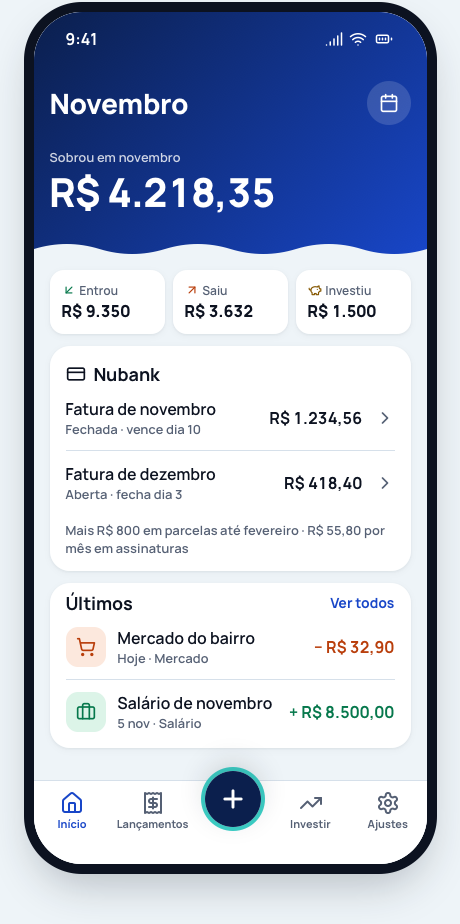
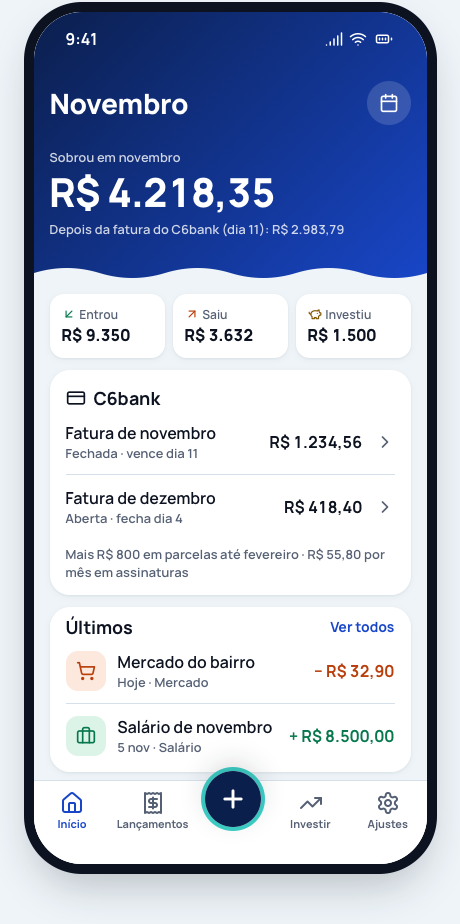
Design: extrato Débito/Crédito e fatura saindo no vencimento (telas 15, 21 e 22)

diff --git a/design/project/components/TelaInicioCredito/preview.html b/design/project/components/TelaInicioCredito/preview.html
@@ -1,3 +1,3 @@
 <!-- @dsCard group="Telas" height=900 subtitle="15 · Início: a fatura fechada (a pagar) e a aberta de cada cartão" -->
-<div class="bf-phone bf-phone--hero"><div class="bf-phone__island"></div><div class="bf-phone__status"><span>9:41</span><span style="display:flex;gap:6px"><i data-lucide="signal" class="bf-icon " style="width:18px;height:18px"></i><i data-lucide="wifi" class="bf-icon " style="width:18px;height:18px"></i><i data-lucide="battery-full" class="bf-icon " style="width:22px;height:18px"></i></span></div><div class="bf-phone__body"><section class="bf-hero" aria-label="Resumo de novembro"><div style="display:flex;justify-content:space-between;align-items:center"><h1 class="bf-screen-title">Novembro</h1><button class="bf-iconbtn" aria-label="Trocar mês"><i data-lucide="calendar" class="bf-icon "></i></button></div><div class="bf-hero__label">Sobrou em novembro</div><div class="bf-hero__value">R$ 4.218,35</div><svg class="bf-hero__onda" viewBox="0 0 300 24" preserveAspectRatio="none" aria-hidden="true"><path d="M0 14 Q 25 4 50 14 T 100 14 T 150 14 T 200 14 T 250 14 T 300 14 V24 H0Z" fill="currentColor"/></svg></section><div class="bf-stats"><div class="bf-stat"><div class="bf-stat__label"><i data-lucide="arrow-down-left" class="bf-icon is-positive"></i>Entrou</div><div class="bf-stat__value">R$ 9.350</div></div><div class="bf-stat"><div class="bf-stat__label"><i data-lucide="arrow-up-right" class="bf-icon is-negative"></i>Saiu</div><div class="bf-stat__value">R$ 3.632</div></div><div class="bf-stat"><div class="bf-stat__label"><i data-lucide="piggy-bank" class="bf-icon is-invest"></i>Investiu</div><div class="bf-stat__value">R$ 1.500</div></div></div><section class="bf-card" aria-label="Cartão de crédito" style="padding-bottom:4px"><div class="bf-card__head" style="margin:0"><h3 class="bf-card__title" style="display:flex;gap:8px;align-items:center"><i data-lucide="credit-card" class="bf-icon "></i>Nubank</h3></div><ul class="bf-list"><li class="bf-row" style="min-height:52px"><div class="bf-row__main"><div class="bf-row__title">Fatura de novembro</div><div class="bf-row__meta">Fechada · vence dia 10</div></div><span class="bf-row__amount">R$ 1.234,56</span><i data-lucide="chevron-right" class="bf-icon muted"></i></li><li class="bf-row" style="min-height:52px"><div class="bf-row__main"><div class="bf-row__title">Fatura de dezembro</div><div class="bf-row__meta">Aberta · fecha dia 3</div></div><span class="bf-row__amount">R$ 418,40</span><i data-lucide="chevron-right" class="bf-icon muted"></i></li></ul><div class="caption muted" style="padding:6px 0 10px">Mais R$ 800 em parcelas até fevereiro · R$ 55,80 por mês em assinaturas</div></section><section class="bf-card" style="padding-top:8px;padding-bottom:4px"><div class="bf-card__head" style="margin:0"><h3 class="bf-card__title">Últimos</h3><a class="bf-link" href="#">Ver todos</a></div><ul class="bf-list"><li class="bf-row"><span class="bf-cat bf-cat--expense"><i data-lucide="shopping-cart" class="bf-icon "></i></span><div class="bf-row__main"><div class="bf-row__title">Mercado do bairro</div><div class="bf-row__meta">Hoje · Mercado</div></div><span class="bf-row__amount is-negative">− R$ 32,90</span></li><li class="bf-row"><span class="bf-cat bf-cat--income"><i data-lucide="briefcase" class="bf-icon "></i></span><div class="bf-row__main"><div class="bf-row__title">Salário de novembro</div><div class="bf-row__meta">5 nov · Salário</div></div><span class="bf-row__amount is-positive">+ R$ 8.500,00</span></li></ul></section></div><nav class="bf-tabbar" aria-label="Principal"><button class="bf-tab" aria-current="page"><i data-lucide="house" class="bf-icon "></i>Início</button><button class="bf-tab"><i data-lucide="receipt" class="bf-icon "></i>Lançamentos</button><button class="bf-fab" aria-label="Novo lançamento"><i data-lucide="plus" class="bf-icon "></i></button><button class="bf-tab"><i data-lucide="trending-up" class="bf-icon "></i>Investir</button><button class="bf-tab"><i data-lucide="settings" class="bf-icon "></i>Ajustes</button></nav></div>
+<div class="bf-phone bf-phone--hero"><div class="bf-phone__island"></div><div class="bf-phone__status"><span>9:41</span><span style="display:flex;gap:6px"><i data-lucide="signal" class="bf-icon " style="width:18px;height:18px"></i><i data-lucide="wifi" class="bf-icon " style="width:18px;height:18px"></i><i data-lucide="battery-full" class="bf-icon " style="width:22px;height:18px"></i></span></div><div class="bf-phone__body"><section class="bf-hero" aria-label="Resumo de novembro"><div style="display:flex;justify-content:space-between;align-items:center"><h1 class="bf-screen-title">Novembro</h1><button class="bf-iconbtn" aria-label="Trocar mês"><i data-lucide="calendar" class="bf-icon "></i></button></div><div class="bf-hero__label">Sobrou em novembro</div><div class="bf-hero__value">R$ 4.218,35</div><div class="bf-hero__label" style="margin-top:6px">Depois da fatura do C6bank (dia 11): R$ 2.983,79</div><svg class="bf-hero__onda" viewBox="0 0 300 24" preserveAspectRatio="none" aria-hidden="true"><path d="M0 14 Q 25 4 50 14 T 100 14 T 150 14 T 200 14 T 250 14 T 300 14 V24 H0Z" fill="currentColor"/></svg></section><div class="bf-stats"><div class="bf-stat"><div class="bf-stat__label"><i data-lucide="arrow-down-left" class="bf-icon is-positive"></i>Entrou</div><div class="bf-stat__value">R$ 9.350</div></div><div class="bf-stat"><div class="bf-stat__label"><i data-lucide="arrow-up-right" class="bf-icon is-negative"></i>Saiu</div><div class="bf-stat__value">R$ 3.632</div></div><div class="bf-stat"><div class="bf-stat__label"><i data-lucide="piggy-bank" class="bf-icon is-invest"></i>Investiu</div><div class="bf-stat__value">R$ 1.500</div></div></div><section class="bf-card" aria-label="Cartão de crédito" style="padding-bottom:4px"><div class="bf-card__head" style="margin:0"><h3 class="bf-card__title" style="display:flex;gap:8px;align-items:center"><i data-lucide="credit-card" class="bf-icon "></i>C6bank</h3></div><ul class="bf-list"><li class="bf-row" style="min-height:52px"><div class="bf-row__main"><div class="bf-row__title">Fatura de novembro</div><div class="bf-row__meta">Fechada · vence dia 11</div></div><span class="bf-row__amount">R$ 1.234,56</span><i data-lucide="chevron-right" class="bf-icon muted"></i></li><li class="bf-row" style="min-height:52px"><div class="bf-row__main"><div class="bf-row__title">Fatura de dezembro</div><div class="bf-row__meta">Aberta · fecha dia 4</div></div><span class="bf-row__amount">R$ 418,40</span><i data-lucide="chevron-right" class="bf-icon muted"></i></li></ul><div class="caption muted" style="padding:6px 0 10px">Mais R$ 800 em parcelas até fevereiro · R$ 55,80 por mês em assinaturas</div></section><section class="bf-card" style="padding-top:8px;padding-bottom:4px"><div class="bf-card__head" style="margin:0"><h3 class="bf-card__title">Últimos</h3><a class="bf-link" href="#">Ver todos</a></div><ul class="bf-list"><li class="bf-row"><span class="bf-cat bf-cat--expense"><i data-lucide="shopping-cart" class="bf-icon "></i></span><div class="bf-row__main"><div class="bf-row__title">Mercado do bairro</div><div class="bf-row__meta">Hoje · Mercado</div></div><span class="bf-row__amount is-negative">− R$ 32,90</span></li><li class="bf-row"><span class="bf-cat bf-cat--income"><i data-lucide="briefcase" class="bf-icon "></i></span><div class="bf-row__main"><div class="bf-row__title">Salário de novembro</div><div class="bf-row__meta">5 nov · Salário</div></div><span class="bf-row__amount is-positive">+ R$ 8.500,00</span></li></ul></section></div><nav class="bf-tabbar" aria-label="Principal"><button class="bf-tab" aria-current="page"><i data-lucide="house" class="bf-icon "></i>Início</button><button class="bf-tab"><i data-lucide="receipt" class="bf-icon "></i>Lançamentos</button><button class="bf-fab" aria-label="Novo lançamento"><i data-lucide="plus" class="bf-icon "></i></button><button class="bf-tab"><i data-lucide="trending-up" class="bf-icon "></i>Investir</button><button class="bf-tab"><i data-lucide="settings" class="bf-icon "></i>Ajustes</button></nav></div>
 <script>(function(){var s=document.createElement("script");s.src="https://unpkg.com/lucide@0.469.0/dist/umd/lucide.min.js";s.onload=function(){lucide.createIcons()};document.head.appendChild(s);})();</script>

diff --git a/design/project/components/TelaExtratoDebito/preview.html b/design/project/components/TelaExtratoDebito/preview.html
@@ -1,0 +1,3 @@
+<!-- @dsCard group="Telas" height=900 subtitle="21 · Lançamentos › Débito: o extrato da conta, com a fatura no dia do vencimento" -->
+<div class="bf-phone"><div class="bf-phone__island"></div><div class="bf-phone__status"><span>9:41</span><span style="display:flex;gap:6px"><i data-lucide="signal" class="bf-icon " style="width:18px;height:18px"></i><i data-lucide="wifi" class="bf-icon " style="width:18px;height:18px"></i><i data-lucide="battery-full" class="bf-icon " style="width:22px;height:18px"></i></span></div><div class="bf-phone__body"><div style="display:flex;justify-content:space-between;align-items:center"><h1 class="bf-screen-title">Lançamentos</h1><button class="bf-iconbtn" aria-label="Trocar mês"><i data-lucide="calendar" class="bf-icon "></i></button></div><div class="bf-seg" role="radiogroup" aria-label="Extrato"><button class="bf-seg__opt" role="radio" aria-checked="true">Débito</button><button class="bf-seg__opt" role="radio" aria-checked="false">Crédito</button></div><section class="bf-card" style="padding-top:0;padding-bottom:4px"><div class="bf-list__day">A pagar</div><ul class="bf-list"><li class="bf-row"><span class="bf-cat bf-cat--expense"><i data-lucide="credit-card" class="bf-icon "></i></span><div class="bf-row__main"><div class="bf-row__title">Fatura C6bank</div><div class="bf-row__meta">Crédito · vence 11 nov</div></div><span class="bf-row__amount is-negative">− R$ 1.234,56</span></li></ul><div class="bf-list__day">Hoje · 8 nov</div><ul class="bf-list"><li class="bf-row"><span class="bf-cat bf-cat--expense"><i data-lucide="car" class="bf-icon "></i></span><div class="bf-row__main"><div class="bf-row__title">Uber</div><div class="bf-row__meta">Transporte · Pix</div></div><span class="bf-row__amount is-negative">− R$ 18,40</span></li><li class="bf-row"><span class="bf-cat bf-cat--expense"><i data-lucide="shopping-cart" class="bf-icon "></i></span><div class="bf-row__main"><div class="bf-row__title">Mercado do bairro</div><div class="bf-row__meta">Mercado · Débito</div></div><span class="bf-row__amount is-negative">− R$ 32,90</span></li></ul><div class="bf-list__day">5 nov</div><ul class="bf-list"><li class="bf-row"><span class="bf-cat bf-cat--income"><i data-lucide="briefcase" class="bf-icon "></i></span><div class="bf-row__main"><div class="bf-row__title">Salário</div><div class="bf-row__meta">Salário</div></div><span class="bf-row__amount is-positive">+ R$ 8.500,00</span></li><li class="bf-row"><span class="bf-cat bf-cat--invest"><i data-lucide="piggy-bank" class="bf-icon "></i></span><div class="bf-row__main"><div class="bf-row__title">Tesouro Selic</div><div class="bf-row__meta">Aporte</div></div><span class="bf-row__amount is-invest">R$ 500,00</span></li></ul></section></div><nav class="bf-tabbar" aria-label="Principal"><button class="bf-tab"><i data-lucide="house" class="bf-icon "></i>Início</button><button class="bf-tab" aria-current="page"><i data-lucide="receipt" class="bf-icon "></i>Lançamentos</button><button class="bf-fab" aria-label="Novo lançamento"><i data-lucide="plus" class="bf-icon "></i></button><button class="bf-tab"><i data-lucide="trending-up" class="bf-icon "></i>Investir</button><button class="bf-tab"><i data-lucide="settings" class="bf-icon "></i>Ajustes</button></nav></div>
+<script>(function(){var s=document.createElement("script");s.src="https://unpkg.com/lucide@0.469.0/dist/umd/lucide.min.js";s.onload=function(){lucide.createIcons()};document.head.appendChild(s);})();</script>

diff --git a/design/project/components/TelaExtratoCredito/preview.html b/design/project/components/TelaExtratoCredito/preview.html
@@ -1,0 +1,3 @@
+<!-- @dsCard group="Telas" height=900 subtitle="22 · Lançamentos › Crédito: as compras no cartão, por fatura" -->
+<div class="bf-phone"><div class="bf-phone__island"></div><div class="bf-phone__status"><span>9:41</span><span style="display:flex;gap:6px"><i data-lucide="signal" class="bf-icon " style="width:18px;height:18px"></i><i data-lucide="wifi" class="bf-icon " style="width:18px;height:18px"></i><i data-lucide="battery-full" class="bf-icon " style="width:22px;height:18px"></i></span></div><div class="bf-phone__body"><div style="display:flex;justify-content:space-between;align-items:center"><h1 class="bf-screen-title">Lançamentos</h1><button class="bf-iconbtn" aria-label="Trocar mês"><i data-lucide="calendar" class="bf-icon "></i></button></div><div class="bf-seg" role="radiogroup" aria-label="Extrato"><button class="bf-seg__opt" role="radio" aria-checked="false">Débito</button><button class="bf-seg__opt" role="radio" aria-checked="true">Crédito</button></div><section class="bf-card" style="padding-top:8px;padding-bottom:4px"><div class="bf-card__head" style="margin:0"><h3 class="bf-card__title" style="display:flex;gap:8px;align-items:center"><i data-lucide="credit-card" class="bf-icon "></i>Fatura C6bank · novembro</h3><span class="caption num muted">R$ 1.234,56</span></div><div class="caption muted">Fechou dia 4 · vence dia 11</div><ul class="bf-list"><li class="bf-row"><span class="bf-cat bf-cat--expense"><i data-lucide="ticket" class="bf-icon "></i></span><div class="bf-row__main"><div class="bf-row__title">Fone de ouvido</div><div class="bf-row__meta">Lazer · 1/3 · comprado em 7 out</div></div><span class="bf-row__amount is-negative">− R$ 400,00</span></li><li class="bf-row"><span class="bf-cat bf-cat--expense"><i data-lucide="shopping-cart" class="bf-icon "></i></span><div class="bf-row__main"><div class="bf-row__title">Mercado do mês</div><div class="bf-row__meta">Mercado · à vista · 20 out</div></div><span class="bf-row__amount is-negative">− R$ 148,30</span></li><li class="bf-row"><span class="bf-cat bf-cat--expense"><i data-lucide="ticket" class="bf-icon "></i></span><div class="bf-row__main"><div class="bf-row__title">Netflix</div><div class="bf-row__meta">Lazer · todo mês</div></div><span class="bf-row__amount is-negative">− R$ 39,90</span></li></ul></section></div><nav class="bf-tabbar" aria-label="Principal"><button class="bf-tab"><i data-lucide="house" class="bf-icon "></i>Início</button><button class="bf-tab" aria-current="page"><i data-lucide="receipt" class="bf-icon "></i>Lançamentos</button><button class="bf-fab" aria-label="Novo lançamento"><i data-lucide="plus" class="bf-icon "></i></button><button class="bf-tab"><i data-lucide="trending-up" class="bf-icon "></i>Investir</button><button class="bf-tab"><i data-lucide="settings" class="bf-icon "></i>Ajustes</button></nav></div>
+<script>(function(){var s=document.createElement("script");s.src="https://unpkg.com/lucide@0.469.0/dist/umd/lucide.min.js";s.onload=function(){lucide.createIcons()};document.head.appendChild(s);})();</script>

diff --git a/design/scripts/gerar-telas.py b/design/scripts/gerar-telas.py
@@ -47,12 +47,14 @@ ONDA_HERO = ('<svg class="bf-hero__onda" viewBox="0 0 300 24" preserveAspectRati
              '<path d="M0 14 Q 25 4 50 14 T 100 14 T 150 14 T 200 14 T 250 14 T 300 14 V24 H0Z" fill="currentColor"/></svg>')
 
 
-def topo_inicio(sobrou, entrou, saiu, investiu, mes="novembro", trocar_mes=True):
+def topo_inicio(sobrou, entrou, saiu, investiu, mes="novembro", trocar_mes=True, depois=None):
     """Topo do Início na identidade BlueFin: título e saldo no degradê, linha d'água, e os três totais abaixo."""
     seta_in, seta_out, porco = i("arrow-down-left", cls="is-positive"), i("arrow-up-right", cls="is-negative"), i("piggy-bank", cls="is-invest")
     acao = f'<button class="bf-iconbtn" aria-label="Trocar mês">{i("calendar")}</button>' if trocar_mes else ""
     return (f'<section class="bf-hero" aria-label="Resumo de {mes}">{titulo(mes.capitalize(), acao)}'
-            f'<div class="bf-hero__label">Sobrou em {mes}</div><div class="bf-hero__value">{sobrou}</div>{ONDA_HERO}</section>'
+            f'<div class="bf-hero__label">Sobrou em {mes}</div><div class="bf-hero__value">{sobrou}</div>'
+            + (f'<div class="bf-hero__label" style="margin-top:6px">{depois}</div>' if depois else "")
+            + f'{ONDA_HERO}</section>'
             '<div class="bf-stats">'
             f'<div class="bf-stat"><div class="bf-stat__label">{seta_in}Entrou</div><div class="bf-stat__value">{entrou}</div></div>'
             f'<div class="bf-stat"><div class="bf-stat__label">{seta_out}Saiu</div><div class="bf-stat__value">{saiu}</div></div>'
@@ -343,14 +345,16 @@ fatura_linha = lambda titulo_, meta, valor: (
     f'<li class="bf-row" style="min-height:52px"><div class="bf-row__main"><div class="bf-row__title">{titulo_}</div>'
     f'<div class="bf-row__meta">{meta}</div></div><span class="bf-row__amount">{valor}</span>{i("chevron-right", cls="muted")}</li>')
 credito = ('<section class="bf-card" aria-label="Cartão de crédito" style="padding-bottom:4px">'
-           f'<div class="bf-card__head" style="margin:0"><h3 class="bf-card__title" style="display:flex;gap:8px;align-items:center">{i("credit-card")}Nubank</h3></div>'
+           f'<div class="bf-card__head" style="margin:0"><h3 class="bf-card__title" style="display:flex;gap:8px;align-items:center">{i("credit-card")}C6bank</h3></div>'
            '<ul class="bf-list">'
-           + fatura_linha("Fatura de novembro", "Fechada · vence dia 10", "R$ 1.234,56")
-           + fatura_linha("Fatura de dezembro", "Aberta · fecha dia 3", "R$ 418,40")
+           + fatura_linha("Fatura de novembro", "Fechada · vence dia 11", "R$ 1.234,56")
+           + fatura_linha("Fatura de dezembro", "Aberta · fecha dia 4", "R$ 418,40")
            + '</ul><div class="caption muted" style="padding:6px 0 10px">Mais R$ 800 em parcelas até fevereiro · R$ 55,80 por mês em assinaturas</div></section>')
 tela("TelaInicioCredito", "15 · Início: a fatura fechada (a pagar) e a aberta de cada cartão",
-     iphone(topo_inicio("R$ 4.218,35", "R$ 9.350", "R$ 3.632", "R$ 1.500") + credito + ultimos, aba=0),
-     """Cada cartão mostra a fatura que já fechou e ainda não venceu ("Fechada · vence dia 10") e a aberta, que está
+     iphone(topo_inicio("R$ 4.218,35", "R$ 9.350", "R$ 3.632", "R$ 1.500",
+                        depois="Depois da fatura do C6bank (dia 11): R$ 2.983,79") + credito + ultimos, aba=0),
+     """A fatura sai da conta no dia do vencimento: até lá ela não entra no "Saiu" nem no "Sobrou", e o topo mostra quanto
+sobra depois dela ("Depois da fatura do C6bank (dia 11)"). Cada cartão mostra a fatura que já fechou e ainda não venceu ("Fechada · vence dia 10") e a aberta, que está
 recebendo as compras de agora ("Aberta · fecha dia 3"). Tocar numa delas abre Lançamentos no mês dela. Depois do
 vencimento, a fechada sai e fica só a aberta. Embaixo, o que já está comprometido em parcelas e assinaturas.
 Só aparece no mês atual e se houver cartão.""")
@@ -452,5 +456,44 @@ tela("TelaRecorrente", "20 · No crédito: Todo mês para assinaturas que caem s
 até você parar. Em Lançamentos aparece como "Lazer · todo mês". Tocar abre a assinatura: mudar o valor vale daqui
 para frente, "Parar de repetir" tira dos próximos meses (o que já passou fica) e "Excluir" apaga todos.
 O app mantém os próximos 24 meses lançados e vai completando sozinho.""")
+
+def SEG(ativo):
+    opcoes = ""
+    for r in ("Débito", "Crédito"):
+        marcado = "true" if r == ativo else "false"
+        opcoes += f'<button class="bf-seg__opt" role="radio" aria-checked="{marcado}">{r}</button>'
+    return f'<div class="bf-seg" role="radiogroup" aria-label="Extrato">{opcoes}</div>'
+
+
+# 21 · Lançamentos › Débito: o extrato da conta
+tela("TelaExtratoDebito", "21 · Lançamentos › Débito: o extrato da conta, com a fatura no dia do vencimento",
+     iphone(titulo("Lançamentos", f'<button class="bf-iconbtn" aria-label="Trocar mês">{i("calendar")}</button>')
+            + SEG("Débito")
+            + '<section class="bf-card" style="padding-top:0;padding-bottom:4px"><div class="bf-list__day">A pagar</div><ul class="bf-list">'
+            + linha("despesa", "credit-card", "Fatura C6bank", "Crédito · vence 11 nov", "− R$ 1.234,56")
+            + '</ul><div class="bf-list__day">Hoje · 8 nov</div><ul class="bf-list">'
+            + linha("despesa", "car", "Uber", "Transporte · Pix", "− R$ 18,40")
+            + linha("despesa", "shopping-cart", "Mercado do bairro", "Mercado · Débito", "− R$ 32,90")
+            + '</ul><div class="bf-list__day">5 nov</div><ul class="bf-list">'
+            + linha("receita", "briefcase", "Salário", "Salário", "+ R$ 8.500,00")
+            + linha("investimento", "piggy-bank", "Tesouro Selic", "Aporte", "R$ 500,00")
+            + "</ul></section>", aba=1),
+     """Lançamentos abre no extrato da conta ("Débito"): o que entra e sai da conta, dia a dia — receitas, gastos no
+débito e no Pix, aportes e o pagamento de cada fatura, numa linha só, no dia do vencimento. Fatura que ainda não
+venceu fica em "A pagar", no topo. Tocar na fatura abre o "Crédito" daquele mês.""")
+
+# 22 · Lançamentos › Crédito: o cartão
+tela("TelaExtratoCredito", "22 · Lançamentos › Crédito: as compras no cartão, por fatura",
+     iphone(titulo("Lançamentos", f'<button class="bf-iconbtn" aria-label="Trocar mês">{i("calendar")}</button>')
+            + SEG("Crédito")
+            + '<section class="bf-card" style="padding-top:8px;padding-bottom:4px">'
+              f'<div class="bf-card__head" style="margin:0"><h3 class="bf-card__title" style="display:flex;gap:8px;align-items:center">{i("credit-card")}Fatura C6bank · novembro</h3><span class="caption num muted">R$ 1.234,56</span></div>'
+              '<div class="caption muted">Fechou dia 4 · vence dia 11</div><ul class="bf-list">'
+            + linha("despesa", "ticket", "Fone de ouvido", "Lazer · 1/3 · comprado em 7 out", "− R$ 400,00")
+            + linha("despesa", "shopping-cart", "Mercado do mês", "Mercado · à vista · 20 out", "− R$ 148,30")
+            + linha("despesa", "ticket", "Netflix", "Lazer · todo mês", "− R$ 39,90")
+            + '</ul></section>', aba=1),
+     """"Crédito" mostra as compras no cartão de cada fatura do mês (a que fecha nele), com o total, quando fechou e
+quando vence — como antes. As compras não aparecem no extrato da conta: lá a fatura entra inteira, no vencimento.""")
 
 print("telas geradas em", RAIZ)

diff --git a/design/project/components/TelaInicioCredito/README.md b/design/project/components/TelaInicioCredito/README.md
@@ -1,4 +1,5 @@
-Cada cartão mostra a fatura que já fechou e ainda não venceu ("Fechada · vence dia 10") e a aberta, que está
+A fatura sai da conta no dia do vencimento: até lá ela não entra no "Saiu" nem no "Sobrou", e o topo mostra quanto
+sobra depois dela ("Depois da fatura do C6bank (dia 11)"). Cada cartão mostra a fatura que já fechou e ainda não venceu ("Fechada · vence dia 10") e a aberta, que está
 recebendo as compras de agora ("Aberta · fecha dia 3"). Tocar numa delas abre Lançamentos no mês dela. Depois do
 vencimento, a fechada sai e fica só a aberta. Embaixo, o que já está comprometido em parcelas e assinaturas.
 Só aparece no mês atual e se houver cartão.

diff --git a/design/project/components/TelaExtratoDebito/README.md b/design/project/components/TelaExtratoDebito/README.md
@@ -1,0 +1,3 @@
+Lançamentos abre no extrato da conta ("Débito"): o que entra e sai da conta, dia a dia — receitas, gastos no
+débito e no Pix, aportes e o pagamento de cada fatura, numa linha só, no dia do vencimento. Fatura que ainda não
+venceu fica em "A pagar", no topo. Tocar na fatura abre o "Crédito" daquele mês.

diff --git a/design/project/components/TelaExtratoCredito/README.md b/design/project/components/TelaExtratoCredito/README.md
@@ -1,0 +1,2 @@
+"Crédito" mostra as compras no cartão de cada fatura do mês (a que fecha nele), com o total, quando fechou e
+quando vence — como antes. As compras não aparecem no extrato da conta: lá a fatura entra inteira, no vencimento.
